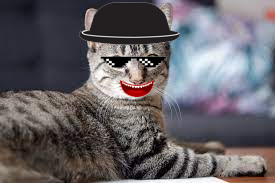
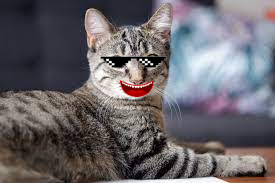
Nejro_Network 228

Changed region(s): [[0.2909, 0.0273, 0.6691, 0.2459], [0.3782, 0.0, 0.5527, 0.0273]]

diff --git a/main.py b/main.py
@@ -9,11 +9,11 @@ cat_face = cat_face_cascade.detectMultiScale(image)
 cat = Image.open(image_path)
 glasses = Image.open('glasses.png')
 smile = Image.open('smile.png')
-cap = Image.open('cap_1.png')
+#cap = Image.open('cap_1.png')
 cat = cat.convert("RGBA")
 glasses = glasses.convert("RGBA")
 smile = smile.convert("RGBA")
-cap = cap.convert("RGBA")
+#cap = cap.convert("RGBA")
 
 print(cat_face)
 #for (x,y,w,h) in cat_face:
@@ -30,8 +30,8 @@ for (x,y,w,h) in cat_face:
     cat.paste(glasses, (x, int(y+h/4)), glasses)
     smile = smile.resize((int(w / 2), int(h / 4)))
     cat.paste(smile, (x+20, int(y/3 + h)), smile)
-    cap = cap.resize((w+50, h+20))
-    cat.paste(cap, (x-30, y-55), cap)
+    #cap = cap.resize((w+50, h+20))
+    #cat.paste(cap, (x-30, y-55), cap)
 
 
 cat.save("cat_with_glasses.png")

diff --git a/pattern1.py b/pattern1.py
@@ -1,2 +1,31 @@
 import cv2
+from PIL import Image
+
+image_cat = 'cat1.jpeg'
+
+cat_face_cascade = cv2.CascadeClassifier('haarcascade_frontalcatface_extended.xml')
+image = cv2.imread(image_cat)
+
+cat_face = cat_face_cascade.detectMultiScale(image)
+print(cat_face)
+
+cat = Image.open(image_cat)
+glasses = Image.open('glasses.png')
+cat = cat.convert("RGBA")
+glasses = glasses.convert("RGBA")
+
+for (x,y,w,h) in cat_face:
+    glasses = glasses.resize((w, int(h / 3)))
+    cat.paste(glasses, (x, int(y + h / 4)), glasses)
+
+    cat.save("kit911.png")
+    kit911 = cv2.imread("kit911.png")
+    cv2.imshow("Кіт в окулярах", kit911)
+    cv2.waitKey()
+
+
+
+
+#cv2.imshow("Cat", image)
+#cv2.waitKey()
 
